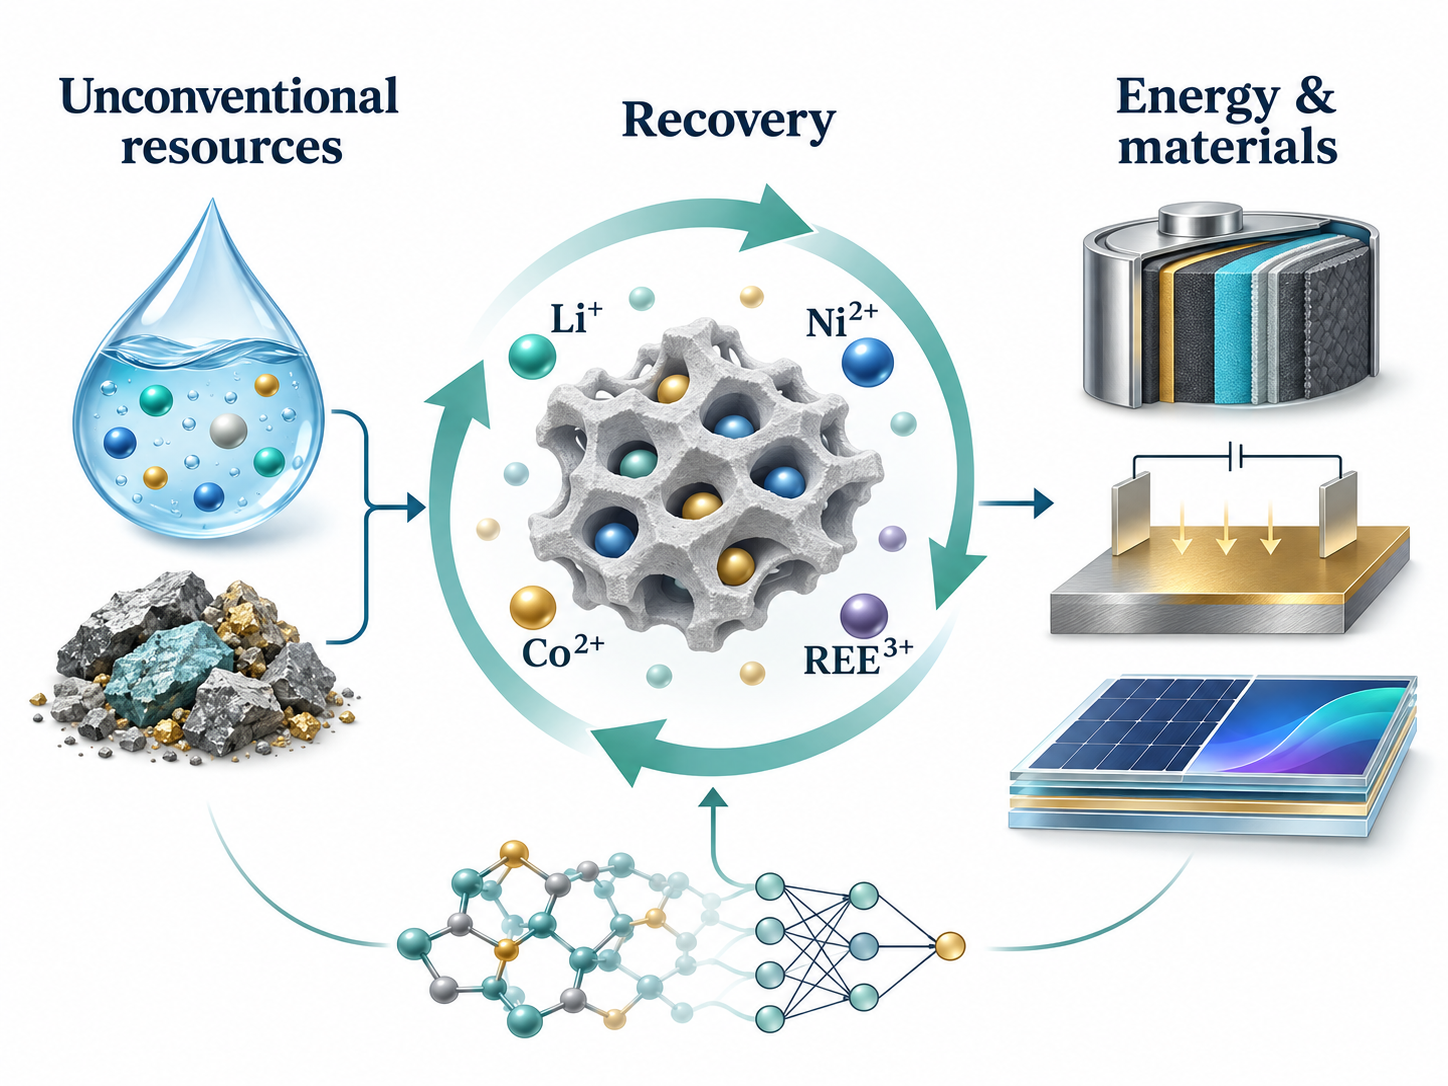
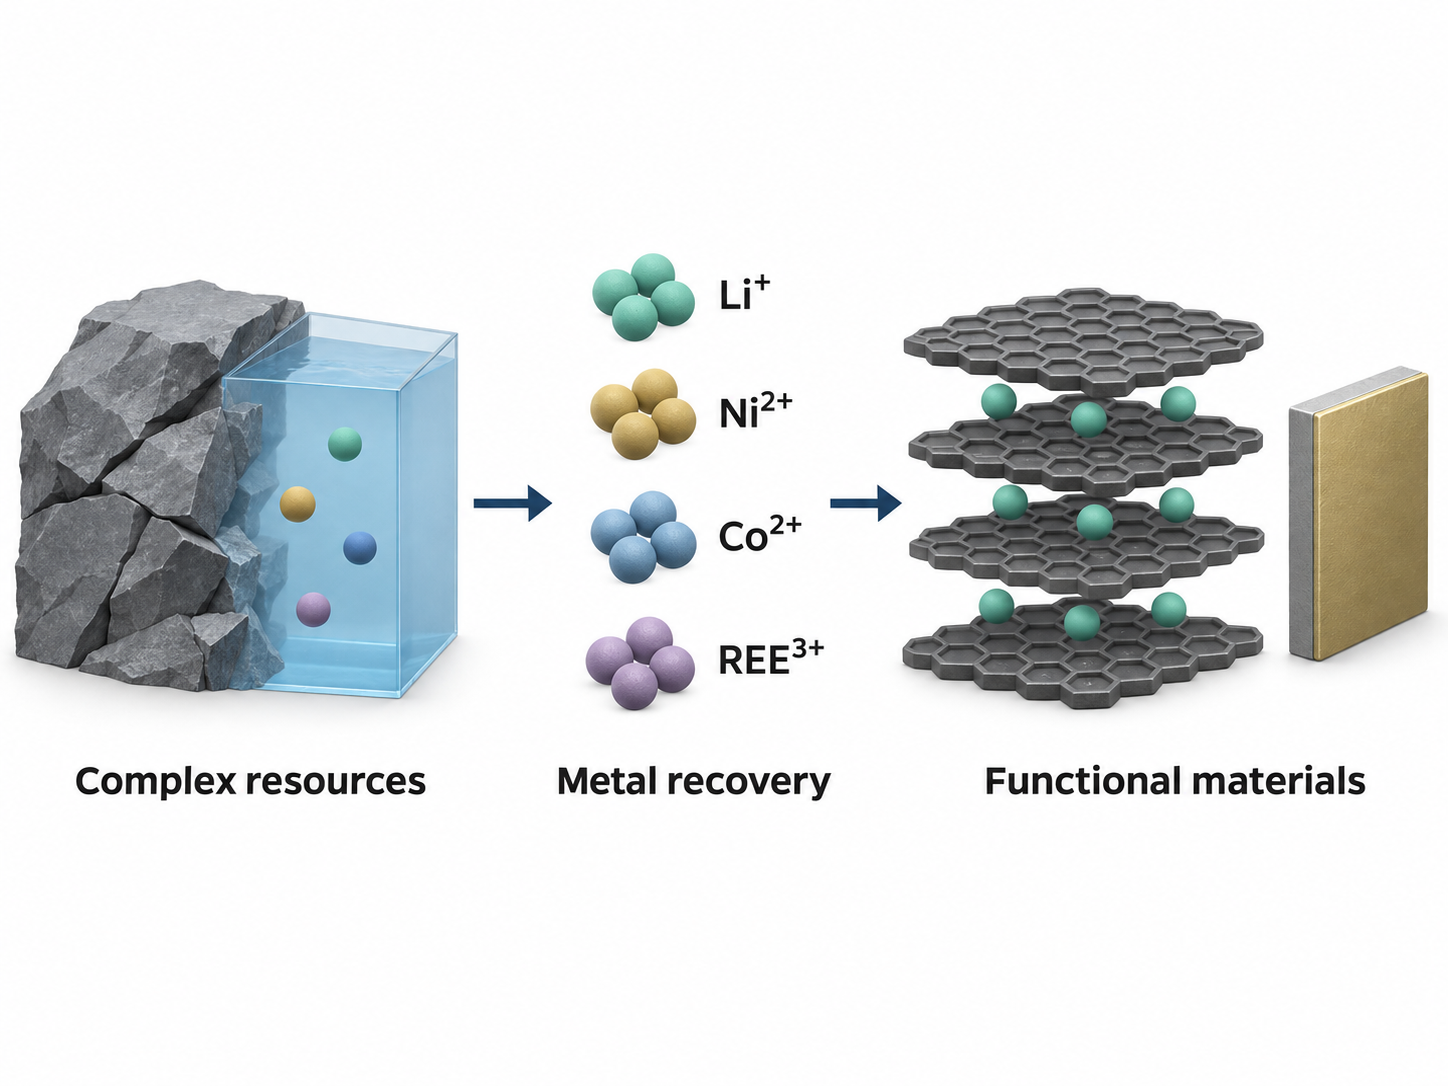
Refine scientific artwork and add autumn research news

diff --git a/index.html b/index.html
@@ -36,17 +36,17 @@
       <div class="interest-gallery">
         <article class="interest-item">
           <h3>Functional Materials</h3>
-          <img class="interest-image" src="images/functional-materials-editorial.png" alt="Conceptual MOF-inspired porous crystal framework and stacked MXene-inspired layers." width="1536" height="1024" loading="lazy" decoding="async">
+          <img class="interest-image" src="images/functional-materials-editorial.png?v=20261115b" alt="Conceptual MOF-inspired crystal framework and layered material with a transparent background." width="1536" height="1024" loading="lazy" decoding="async">
           <p>We design functional materials and study their structure, surface chemistry, and interactions with complex liquid systems. Experiments and molecular simulations guide the development of selective separation materials.</p>
         </article>
         <article class="interest-item">
           <h3>Hydrometallurgy</h3>
-          <img class="interest-image" src="images/hydrometallurgy-editorial.png" alt="Graphical abstract of metal ions in a complex liquid, selective separation through a porous material, and metal recovery." width="1448" height="1086" loading="lazy" decoding="async">
+          <img class="interest-image" src="images/hydrometallurgy-editorial.png?v=20261115b" alt="Conceptual ion transport through a selective layered material, with a molecular binding-site inset." width="1448" height="1086" loading="lazy" decoding="async">
           <p>We investigate dissolution, extraction, adsorption, and other aqueous separation processes for complex liquids and solid wastes. Experiments and process modeling help us understand selectivity and improve recovery.</p>
         </article>
         <article class="interest-item">
           <h3>Critical Mineral Recovery</h3>
-          <img class="interest-image" src="images/critical-minerals-editorial.png" alt="Graphical abstract connecting unconventional liquid and solid resources, critical mineral recovery, computational methods, batteries, coatings, and energy materials." width="1448" height="1086" loading="lazy" decoding="async">
+          <img class="interest-image" src="images/critical-minerals-editorial.png?v=20261115b" alt="Conceptual recovery of lithium, nickel, cobalt and rare-earth ions from complex resources for functional materials." width="1448" height="1086" loading="lazy" decoding="async">
           <p>We explore critical mineral recovery from unconventional resources, complex liquid streams, and solid wastes. Computation, data-driven methods, and AI complement experiments to identify promising materials and recovery pathways.</p>
         </article>
       </div>
@@ -54,6 +54,10 @@
     <section class="home-section">
       <h2>News</h2>
       <ul class="news">
+        <li><time datetime="2026-11">November 2026</time><p>Yanan presented the group’s research on critical mineral recovery at a seminar in the University of Kentucky Department of Chemistry.</p></li>
+        <li><time datetime="2026-10">October 2026</time><div class="news-content"><p>Yanan gave a one-minute research introduction at CURE-KY Cornerstone: Engineering Research Highlights, highlighting critical mineral recovery from unconventional and waste resources.</p>
+          <div class="news-photo"><img src="images/cure-ky-october-2026.png" alt="Yanan Pan presenting research on critical mineral recovery at CURE-KY Cornerstone in October 2026." width="1077" height="892" loading="lazy" decoding="async"></div>
+        </div></li>
         <li><time datetime="2026-08">August 2026</time><p>Yanan joined the University of Kentucky as an Assistant Professor of Mining Engineering, with a joint appointment in Materials Engineering.</p></li>
         <li><time datetime="2026">2026</time><p>Yanan received first place in the SME Graduate Student Research Poster Contest.</p></li>
       </ul>

diff --git a/styles.css b/styles.css
@@ -182,3 +182,8 @@ main { border-top: 0; }
 .student-education { margin-top: 24px; }
 .student-education p { font-size: 18px; line-height: 1.65; margin: 0 0 16px; }
 .student-education p:last-child { margin-bottom: 0; }
+
+/* Display only the event photograph from the owner-provided screenshot. */
+.news-content { min-width: 0; }
+.news-photo { position: relative; width: 100%; max-width: 620px; aspect-ratio: 890 / 530; overflow: hidden; margin-top: 20px; }
+.news-photo img { position: absolute; width: 121.01124%; max-width: none; height: auto; left: -14.1573%; top: -67.73585%; }

diff --git a/SOURCES.md b/SOURCES.md
@@ -15,3 +15,7 @@ Header artwork: original AI-generated decorative mineral crystal and layered mat
 Research-interest artwork: built-in image_gen illustrations, November 15, 2026. Functional Materials restores the owner-selected complex MOF- and MXene-inspired artwork. Hydrometallurgy and Critical Mineral Recovery use conceptual graphical abstracts depicting ions, selective materials, recovery pathways and applications. These are not measured structures, experimental results or photographs of group facilities.
 
 Student education confirmed by the owner: Yang Liu — master’s degree in Metallurgical Engineering, North China University of Science and Technology, 2023–2026; bachelor’s degree in Software Engineering, Baicheng Normal University, 2019–2023. Liya Fang — undergraduate student, Beijing Institute of Technology.
+
+Autumn 2026 News: owner-confirmed November seminar at the University of Kentucky Department of Chemistry; October one-minute introduction at CURE-KY Cornerstone: Engineering Research Highlights. Event name and presentation topic corroborated by the owner-provided screenshot; displayed photo is a CSS crop of the original screenshot, with no generative alteration of people or slide content. No specific day, seminar title, or event link has been inferred.
+
+Research artwork refinement: the first illustration now has a genuine alpha background. The second and third use restrained, orthographic 3D scientific-diagram styling inspired by C4D workflows, generated with image_gen (not authored in Cinema 4D). Composition reference: https://www.nature.com/articles/s44221-022-00006-z (Fig. 4); no published figure has been copied into the website. Images remain conceptual, without quantitative claims.
